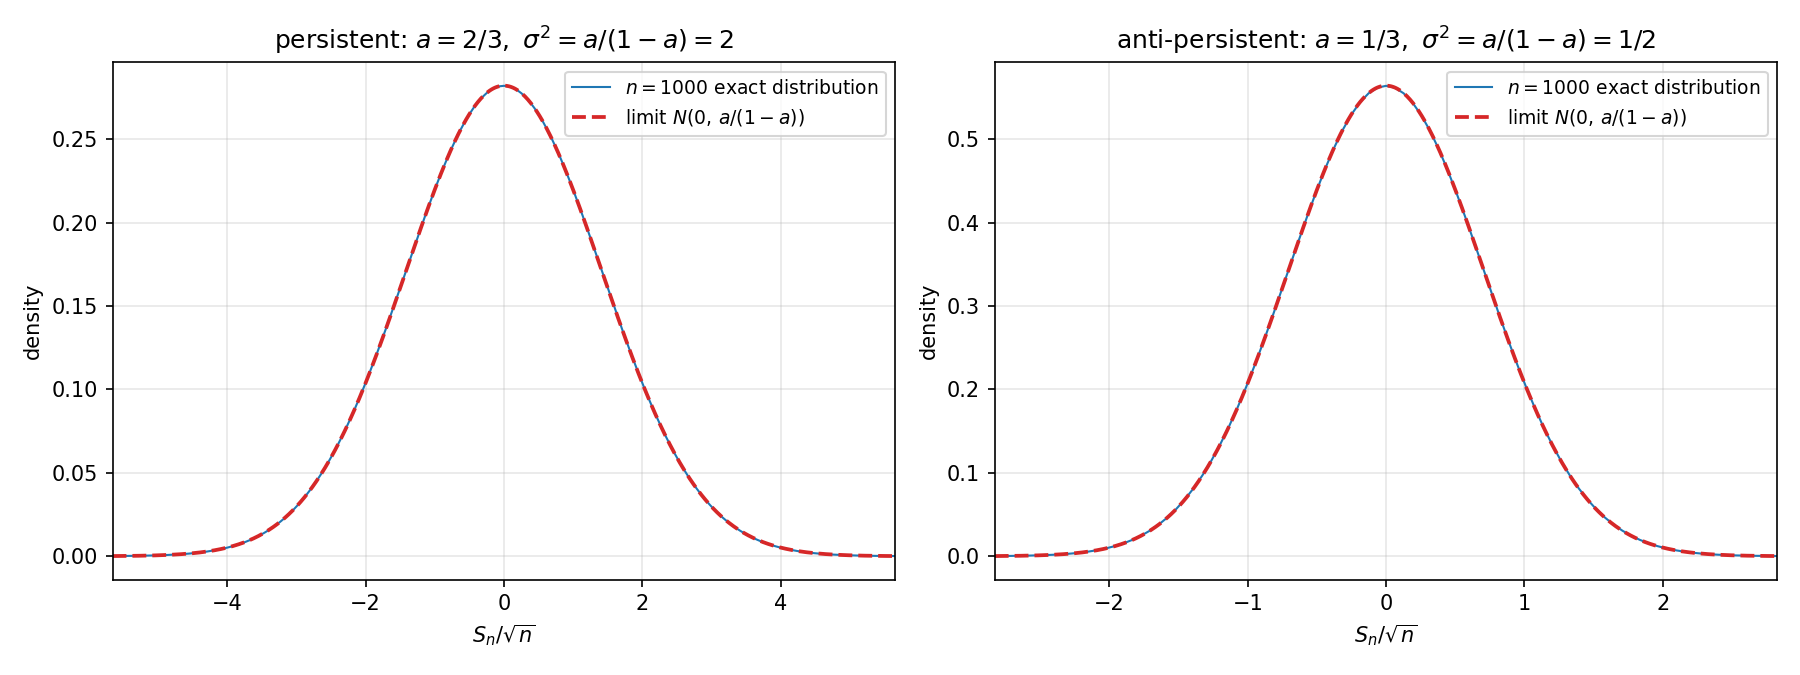
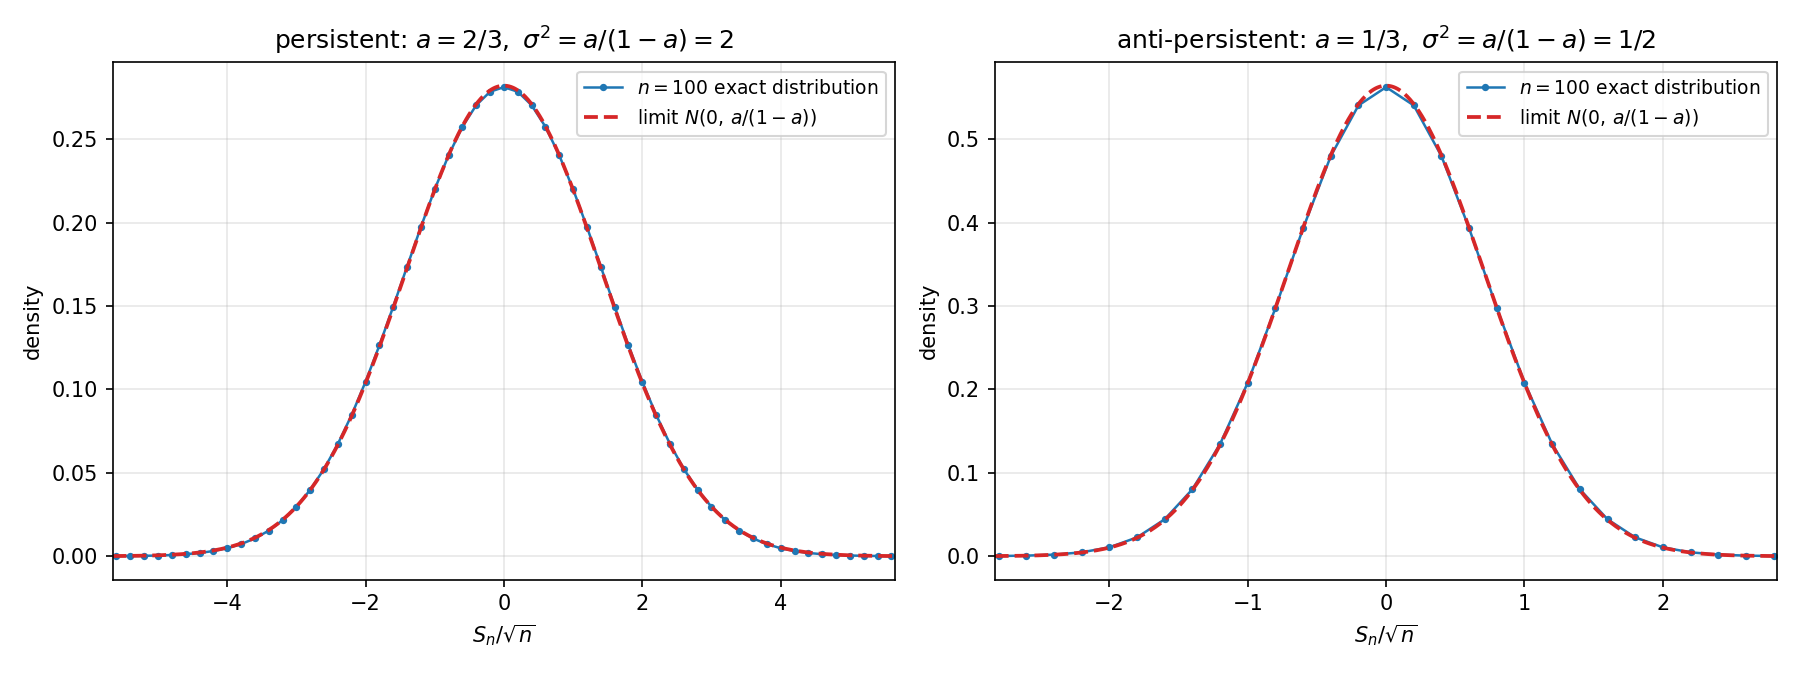
極限分布の数値比較を n=100 に変更
ステップ数を n=1000 から n=100 に変更し、図・本文・キャプションを更新。
n=100 でも有限ステップ分布が極限正規分布とよく一致することを示す。

https://claude.ai/code/session_01NZvYtZGsr4vbNfAz85eabg

diff --git a/random_walk_report.tex b/random_walk_report.tex
@@ -583,18 +583,18 @@ $a < 1/2$ の場合の極限分布を図\,\ref{fig:crw_limit_antipersistent} に
 有限の $n$ においても分布がどの程度極限に近づくかを確認しておく。
 そこで，時間発展対称な相関付きランダムウォークの確率ベクトルの時間発展\eqref{eq:crw_evolution}
 を用いて，初期確率ベクトル $\varphi = (1/2,\,1/2)^\top$ のもとで
-時刻 $n = 1000$ までの分布 $P(\tilde{S}_{n} = x)$ を厳密に計算した。
+時刻 $n = 100$ までの分布 $P(\tilde{S}_{n} = x)$ を厳密に計算した。
 得られた分布をスケーリング $\tilde{S}_n/\sqrt{n}$ のもとで密度に換算し，
 極限正規分布 $N\!\left(0,\,a/(1-a)\right)$ と重ねて比較した結果を
 図\,\ref{fig:crw_limit_simulation} に示す。
 持続性の場合（$a = 2/3$，$\sigma^2 = 2$）と反転傾向の場合（$a = 1/3$，$\sigma^2 = 1/2$）
-のいずれにおいても，$n = 1000$ の有限ステップ分布は極限正規分布とほぼ完全に一致しており，
-定理\,\ref{thm:clt_corr} の弱収束が数値的に確認できる。
+のいずれにおいても，$n = 100$ という比較的小さなステップ数でも有限ステップ分布は
+極限正規分布とよく一致しており，定理\,\ref{thm:clt_corr} の弱収束が数値的に確認できる。
 
 \begin{figure}[H]
   \centering
   \includegraphics[width=\textwidth]{crw_limit_simulation}
-  \caption{時間発展対称な相関付きランダムウォークの有限ステップ分布（$n=1000$，厳密計算）と極限正規分布 $N(0,\,a/(1-a))$ の比較。左：持続性（$a=2/3$），右：反転傾向（$a=1/3$）。}
+  \caption{時間発展対称な相関付きランダムウォークの有限ステップ分布（$n=100$，厳密計算）と極限正規分布 $N(0,\,a/(1-a))$ の比較。左：持続性（$a=2/3$），右：反転傾向（$a=1/3$）。}
   \label{fig:crw_limit_simulation}
 \end{figure}
 

diff --git a/make_crw_limit_simulation.py b/make_crw_limit_simulation.py
@@ -45,7 +45,7 @@ def crw_distribution(a, n, phi=(0.5, 0.5)):
 
 
 def make_figure():
-    n = 1000
+    n = 100
     cases = [
         (2.0 / 3.0, "persistent: $a=2/3,\\ \\sigma^2=a/(1-a)=2$"),
         (1.0 / 3.0, "anti-persistent: $a=1/3,\\ \\sigma^2=a/(1-a)=1/2$"),
@@ -69,8 +69,8 @@ def make_figure():
         yy = np.linspace(-4 * np.sqrt(sigma2), 4 * np.sqrt(sigma2), 800)
         normal = np.exp(-yy ** 2 / (2 * sigma2)) / np.sqrt(2 * np.pi * sigma2)
 
-        ax.plot(y, density, color="#1f77b4", lw=1.0,
-                label="$n=1000$ exact distribution")
+        ax.plot(y, density, color="#1f77b4", lw=1.2, marker="o", ms=2.5,
+                label="$n=100$ exact distribution")
         ax.plot(yy, normal, color="#d62728", lw=1.8, ls="--",
                 label="limit $N(0,\\,a/(1-a))$")
         ax.set_title(title)
